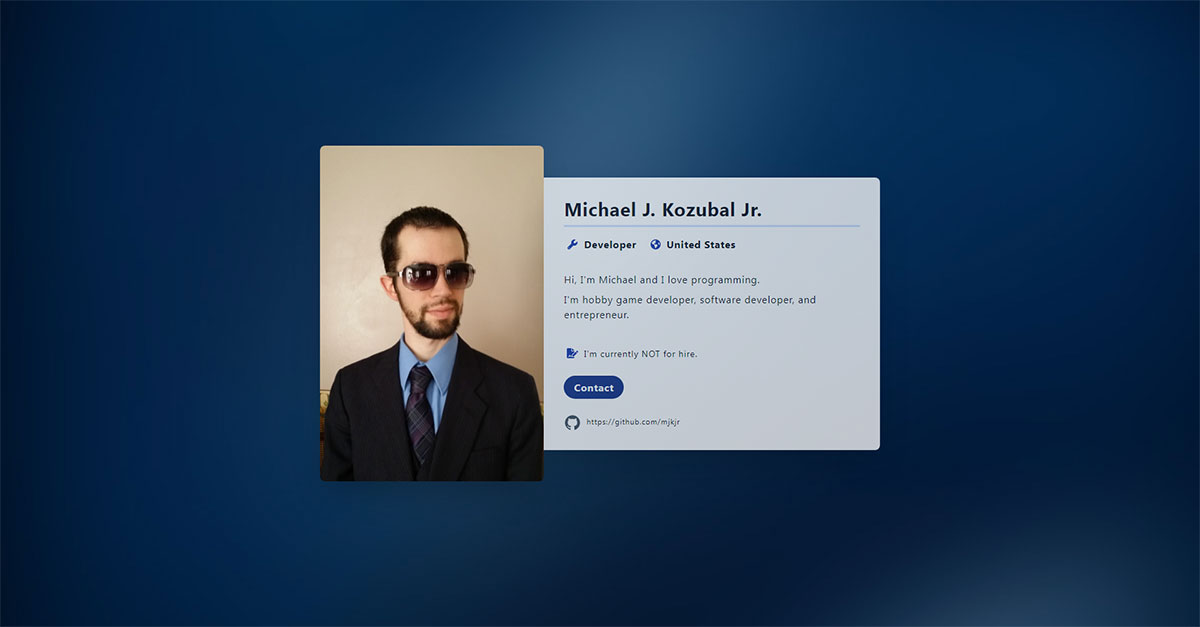
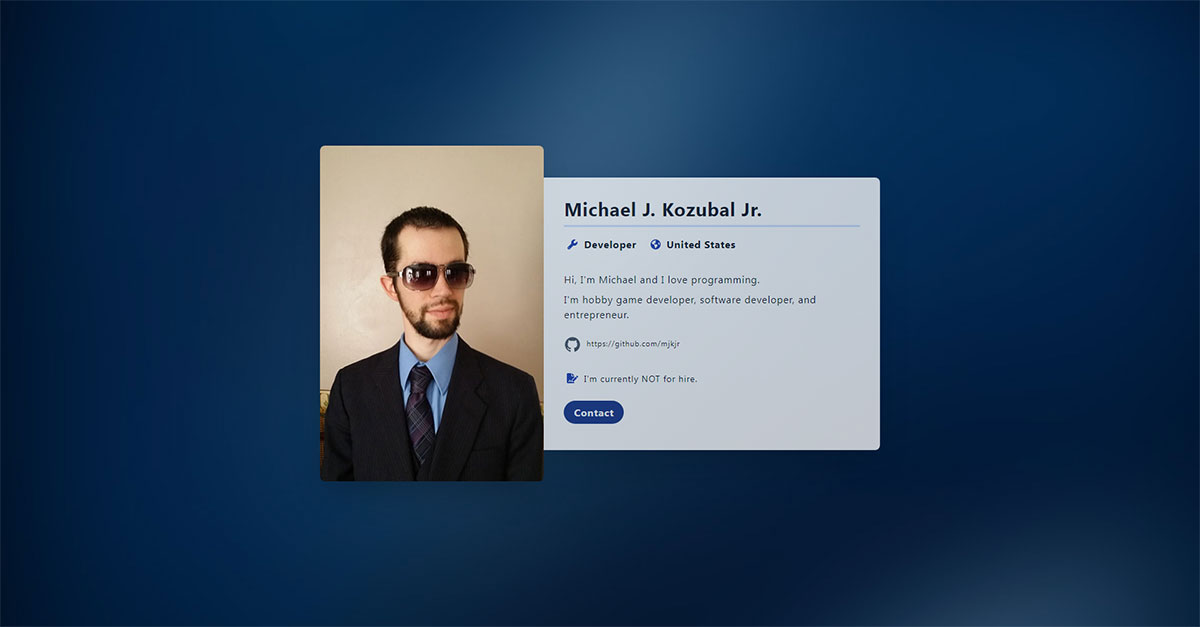
Re-arranged layout

Changed region(s): [[0.4625, 0.5455, 0.5858, 0.697]]

diff --git a/index.html b/index.html
@@ -46,6 +46,12 @@
 			<div id="bio">
 				<p>Hi, I'm Michael and I love programming.</p>
 				<p>I'm hobby game developer, software developer, and entrepreneur.</p>
+				<div id="links">
+					<a href="https://github.com/mjkjr">
+						<svg class="icon"><use xlink:href="/img/icons.svg#github" /></svg>
+						https://github.com/mjkjr
+					</a>
+				</div>
 			</div>
 			<p id="contract">
 				<svg class="icon"><use xlink:href="/img/icons.svg#file-signature" /></svg>
@@ -54,12 +60,6 @@
 			<div id="buttons">
 				<a class="button" href="mailto:mike@mjkjr.com">
 					Contact
-				</a>
-			</div>
-			<div id="links">
-				<a class="link" href="https://github.com/mjkjr">
-					<svg class="icon"><use xlink:href="/img/icons.svg#github" /></svg>
-					https://github.com/mjkjr
 				</a>
 			</div>
 		</div>

diff --git a/css/mjkjr.css b/css/mjkjr.css
@@ -673,7 +673,6 @@ hr {
 #links {
 	width: 80%;
 	margin: 1rem auto 0 auto;
-	padding-bottom: 2rem;
 	flex-wrap: wrap;
 	font-size: .75rem;
 }
